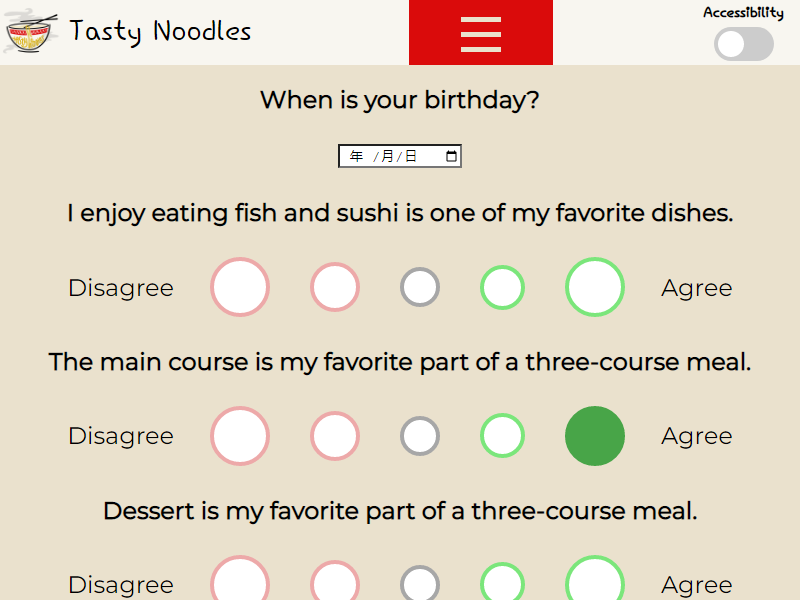
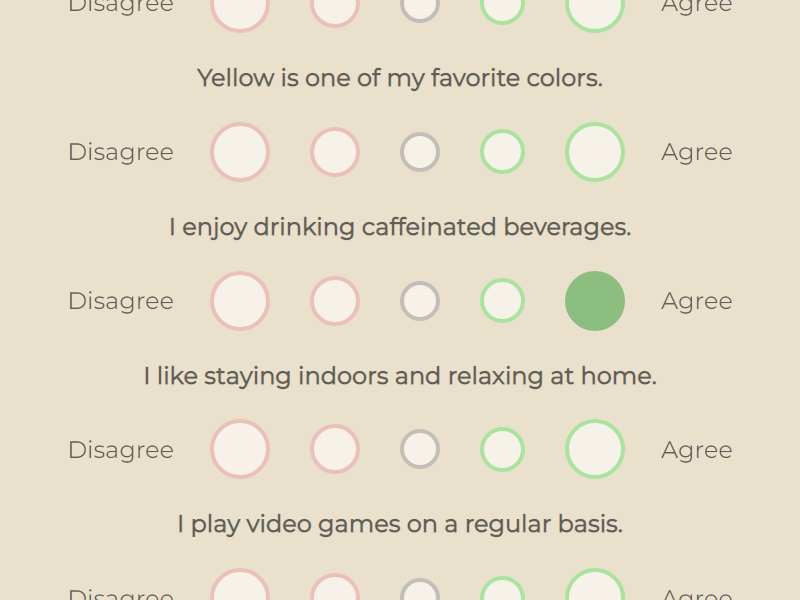
test: update tests for questionnaire

diff --git a/fortunetelling/src/__test__/e2e/questionnaire.test.js b/fortunetelling/src/__test__/e2e/questionnaire.test.js
@@ -1,4 +1,11 @@
-const timeout = 5000;
+const timeout = 10000;
+const noodleDescription = require('fortunetelling/src/js/database/noodleDescriptions.json');
+
+const randomIntArrayInRange = (min, max, n = 1) =>
+	Array.from(
+		{ length: n },
+		() => Math.floor(Math.random() * (max - min + 1)) + min
+	);
 
 describe('Questionnaire', () => {
 	beforeAll(async () => {
@@ -11,7 +18,8 @@ describe('Questionnaire', () => {
 		'should select only one radio button per form in the questionnaire',
 		async () => {
 			const questionForms = await page.$$('.Question'); // Get all question form elements
-			const questionForm = questionForms[1];
+			const i = Math.ceil(Math.random() * 10);
+			const questionForm = questionForms[i];
 			const radioButtons = await questionForm.$$('input[type="radio"]');
 			for (const radioButton of radioButtons) {
 				await radioButton.click(); // Click all radios in the second form, therefore only the last one should be selected in the end
@@ -30,13 +38,57 @@ describe('Questionnaire', () => {
 
 	it(
 		'should check all forms have their answers before submit',
-		async () => {},
+		async () => {
+			page.on('dialog', async (dialog) => {
+				const dialogMsg = dialog.message();
+				// Close the dialog
+				await page.evaluate(function () {
+					const submitButton = document.querySelector('#submit');
+					submitButton.click();
+				});
+				expect(dialogMsg).toBe('You have not answered all the questions.');
+				await dialog.dismiss();
+			});
+		},
 		timeout
 	);
 
 	it(
 		'should navigate to the right noodle profile after submit',
-		async () => {},
+		async () => {
+			const randomAnswer = randomIntArrayInRange(1, 5, 10);
+			const questionForms = await page.$$('.Question');
+			for (let i = 0; i < questionForms.length; i++) {
+				const answer = randomAnswer[i];
+				const questionForm = questionForms[i];
+				const radioButtons = await questionForm.$$('input[type="radio"]');
+				for (let j = 1; j <= 5; j++) {
+					if (j === answer) {
+						await radioButtons[j - 1].click();
+					}
+				}
+			}
+			await page.screenshot({
+				path: 'src/__test__/screenshots/random-answer.png'
+			});
+			await page.evaluate(function () {
+				const submitButton = document.querySelector('#submit');
+				submitButton.click();
+			});
+			await page.waitForTimeout(500);
+			const idx =
+				randomAnswer.reduce(
+					(accumulator, currentValue) => accumulator + currentValue,
+					0
+				) % 12;
+			const expectedNoodle = noodleDescription[idx]['noodleName'];
+			const expectedResult = `Congratulations, your personality type is ${expectedNoodle}!`;
+			const actualResult = await page.evaluate(function () {
+				const quizResult = document.getElementById('quizResult');
+				return quizResult.textContent;
+			});
+			expect(expectedResult).toBe(actualResult);
+		},
 		timeout
 	);
 });

diff --git a/fortunetelling/src/__test__/unit/testPersonality.js b/fortunetelling/src/__test__/unit/testPersonality.js
@@ -1,4 +1,5 @@
 /* Commented  because it hasn't been implemented fully yet
+  Deprecated because Darren implemented this differently
 
 import { ok } from 'node:assert';
 import { it } from './helper.js';

diff --git a/fortunetelling/src/__test__/e2e/accessibility.test.js b/fortunetelling/src/__test__/e2e/accessibility.test.js
@@ -1,4 +1,4 @@
-// Having problem with clicking the accessibility button
+// Having problem with clicking the accessibility button, I have tried literally all combinations
 
 const timeout = 20000;
 
